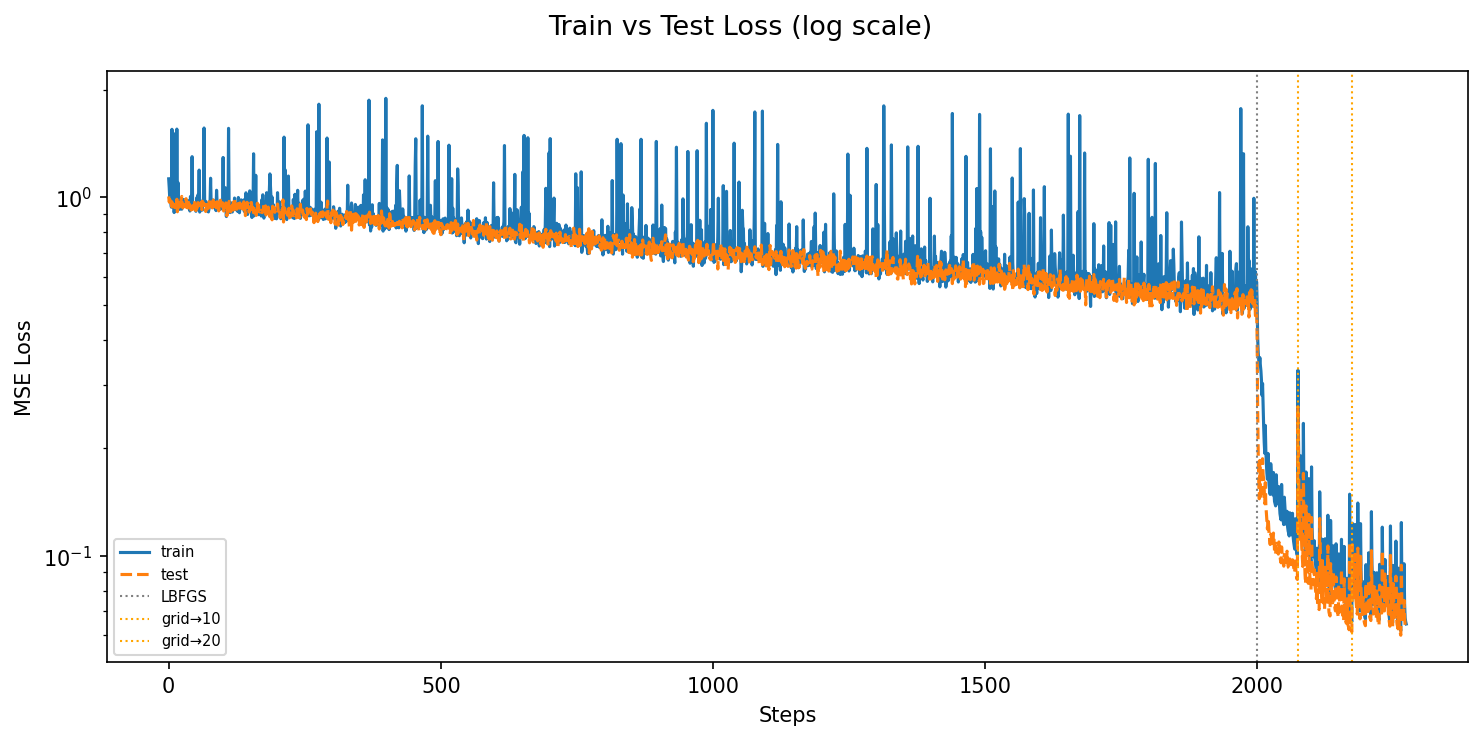
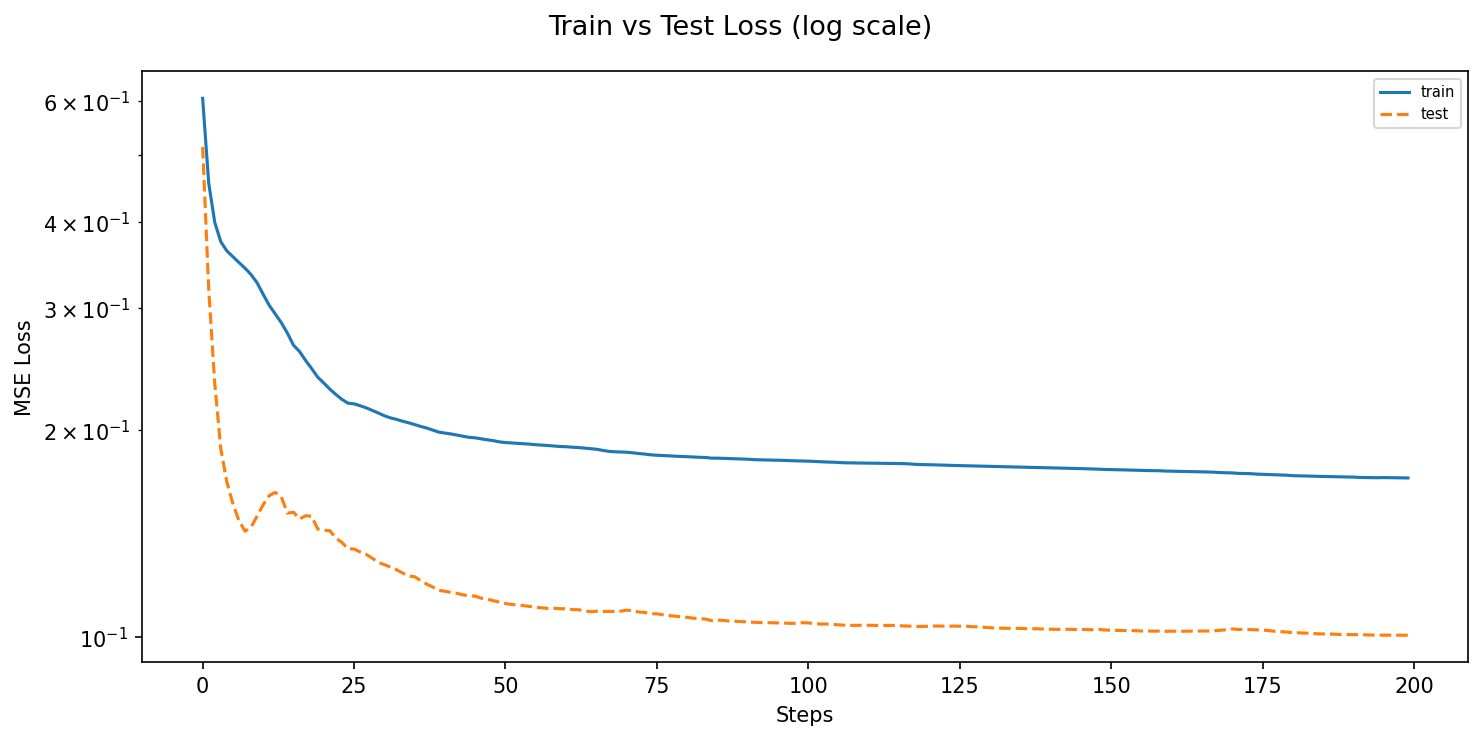
OH weighted loss, pseudo-steady state assumption

diff --git a/smog_model.py b/smog_model.py
@@ -1,3 +1,6 @@
+import functools
+print = functools.partial(print, flush=True)
+
 import pandas as pd
 import numpy as np
 import torch
@@ -9,22 +12,23 @@ from kan import KAN
 import os
 
 # paths
-CSV_PATH  = "C:/kan-project/data/experiments_11e5_1hour_5mins_falsecombinatoricratelaws.csv"
+CSV_PATH  = "C:/kan-project/experiments_11e5_1hour_5mins_falsecombinatoricratelaws.csv"
 SAVE_PATH = "C:/kan-project/predictions.npz"
 FIG_DIR   = "C:/kan-project/figures/"
 CKPT_PATH      = "C:/kan-project/model/smog_kan"
 BEST_CKPT_PATH = "C:/kan-project/model/smog_kan_best"
 
 os.makedirs(FIG_DIR, exist_ok=True)
+os.makedirs(os.path.dirname(CKPT_PATH), exist_ok=True)
 
 # config
 N_EXPS               = 10000
 TRAIN_SPLIT          = 0.8
 SEED                 = 42
-STEPS_LBFGS          = 200
+STEPS_LBFGS          = 2002
 LAMB                 = 0
 LBFGS_CHUNK          = 25      # save best every N lbfgs steps
-LOAD_FROM_CHECKPOINT = False   # set True to skip training and load saved model
+LOAD_FROM_CHECKPOINT = True   # set True to skip training and load saved model
 
 device = torch.device('cuda' if torch.cuda.is_available() else 'cpu')
 
@@ -117,6 +121,17 @@ print(f"train: {dataset['train_input'].shape} | test: {dataset['test_input'].sha
 KAN_WIDTH = [n_species, 16, 16, n_species]
 print(f"\nArchitecture: {KAN_WIDTH}")
 
+# per-species loss weighting — OH's tendency is tiny in magnitude relative to
+# other species, so plain MSE barely penalizes getting it wrong; upweight it.
+SPECIES_WEIGHTS = {"OH": 2.5}
+species_weight = torch.tensor(
+    [SPECIES_WEIGHTS.get(name, 1.0) for name in species_names],
+    dtype=torch.float32, device=device,
+)
+
+def weighted_mse(pred, target):
+    return torch.mean(species_weight * (pred - target) ** 2)
+
 def make_model():
     torch.manual_seed(SEED)
     m = KAN(width=KAN_WIDTH, grid=5, k=3, seed=SEED, device=device, auto_save=False, grid_eps=0.0)
@@ -151,7 +166,7 @@ else:
     best_val = float('inf')
 
     train_loss, test_loss, best_val = fit_chunked(model, dataset, "LBFGS", STEPS_LBFGS, LBFGS_CHUNK,
-                                                  best_val, lamb=LAMB, batch=-1)
+                                                  best_val, lamb=LAMB, batch=-1, loss_fn=weighted_mse)
 
     model.saveckpt(CKPT_PATH)
     print(f"Checkpoint saved → {CKPT_PATH}_*")
@@ -189,8 +204,8 @@ def eval_model(model):
     with torch.no_grad():
         preds_scaled = model(dataset['test_input'])
     mse       = torch.mean((preds_scaled - dataset['test_label']) ** 2).item()
-    preds_ppb = scalerY.inverse_transform(preds_scaled.numpy())
-    actual    = scalerY.inverse_transform(dataset['test_label'].numpy())
+    preds_ppb = scalerY.inverse_transform(preds_scaled.cpu().numpy())
+    actual    = scalerY.inverse_transform(dataset['test_label'].cpu().numpy())
     rmse_per  = np.sqrt(np.mean((preds_ppb - actual) ** 2, axis=0))
     return mse, rmse_per, preds_ppb, actual
 
@@ -200,7 +215,31 @@ print(f"\nTest MSE: {mse:.6f} | Mean RMSE: {rmse_per.mean():.4f} ppb/step")
 for name, rmse in zip(species_names, rmse_per):
     print(f"  {name:10s}: {rmse:.4f} ppb/step")
 
+# pseudo-steady-state check: reconstruct C(t+1) = C_input(t) + predicted tendency,
+# and see how often that violates the physical constraint that concentrations >= 0
+C_input_test  = X_clean[n_train:]
+C_next_pred   = C_input_test + preds
+C_next_actual = C_input_test + actual_ppb
+frac_negative = np.mean(C_next_pred < 0, axis=0)
+conc_rmse_per = np.sqrt(np.mean((C_next_pred - C_next_actual) ** 2, axis=0))
+
+print(f"\nPseudo-steady-state reconstruction (C_input + predicted tendency):")
+for name, frac_neg, c_rmse in zip(species_names, frac_negative, conc_rmse_per):
+    print(f"  {name:10s}: {100*frac_neg:5.2f}% negative | concentration RMSE {c_rmse:.4f} ppb")
+
 x, w = np.arange(n_species), 0.4
+
+fig, ax = plt.subplots(figsize=(13, 5))
+ax.bar(x, 100 * frac_negative, w)
+ax.set_xticks(x)
+ax.set_xticklabels(species_names, rotation=45, ha='right')
+ax.set_ylabel("Reconstructed C(t+1) < 0  (%)")
+ax.set_title("Physical Plausibility: Negative Reconstructed Concentrations")
+plt.tight_layout()
+plt.savefig(FIG_DIR + "physical_plausibility.png", dpi=150, bbox_inches="tight")
+plt.close()
+print("Saved: figures/physical_plausibility.png")
+
 fig, ax = plt.subplots(figsize=(13, 5))
 ax.bar(x, rmse_per, w)
 ax.set_xticks(x)
@@ -252,6 +291,11 @@ print(f"Saved predictions to {SAVE_PATH}")
 model.save_act = True
 with torch.no_grad():
     model(dataset['train_input'])
-model.plot(in_vars=species_names, out_vars=species_names)
-plt.savefig("C:/kan-project/kan_graph.png", dpi=150, bbox_inches="tight")
+
+# pykan's label font size (40*scale*varscale) and label spacing (fig_width/n_species)
+# both scale with `scale`, so only varscale (not scale) can prevent label overlap
+max_label_len = max(len(s) for s in species_names)
+label_varscale = min(1.0, max(0.25, 19 / (n_species * max_label_len)))
+model.plot(in_vars=species_names, out_vars=species_names, scale=1.0, varscale=label_varscale)
+plt.savefig("C:/kan-project/kan_graph.png", dpi=200, bbox_inches="tight")
 print("Saved KAN graph to C:/kan-project/kan_graph.png")

diff --git a/baseline_xgboost.py b/baseline_xgboost.py
@@ -1,0 +1,120 @@
+import functools
+print = functools.partial(print, flush=True)
+
+import numpy as np
+import pandas as pd
+import xgboost as xgb
+from sklearn.metrics import r2_score
+
+# This evaluates Sturm & Silva's actual trained XGBoost emulator
+# (Zenodo 10.5281/zenodo.13385987, smogforest_new.json) on its own proper
+# held-out test set, replicating their exact preprocessing so the model
+# receives inputs scaled exactly as it was trained on.
+#
+# NOTE: this is NOT the same test split our KAN was evaluated on — the KAN
+# was trained/tested on a 10,000-experiment subset (80/20 split), while this
+# model was trained on the full 1,000,000-experiment dataset (90/10 split,
+# per the paper). Both are still valid held-out evaluations since all
+# experiments are drawn i.i.d. from the same random initial-condition
+# distribution, but the numbers are a reproduction of their reported
+# baseline, not a row-for-row identical comparison to our KAN's test set.
+
+CSV_PATH   = "C:/kan-project/experiments_11e5_1hour_5mins_falsecombinatoricratelaws.csv"
+MODEL_PATH = "C:/kan-project/model/sturm_silva/smogforest_new.json"
+
+n_pts, n_steps = 13, 12
+N_EXPS_TOTAL = 1_000_000
+TRAIN_EXPS   = 900_000
+TEST_EXPS    = 100_000
+
+ignore_species = ['H2O', 'O2', 'HNO3', 'CO', 'H2']
+
+header   = pd.read_csv(CSV_PATH, nrows=0)
+ppb_cols = [c for c in header.columns if c.endswith('[ppb]')]
+assert len(ppb_cols) == 16
+active_cols    = [c for c in ppb_cols if c.split(' ')[0] not in ignore_species]
+active_idx     = [ppb_cols.index(c) for c in active_cols]
+species_all    = [c.split(' ')[0] for c in ppb_cols]
+species_active = [c.split(' ')[0] for c in active_cols]
+n_all, n_active = len(ppb_cols), len(active_cols)
+print(f"All species ({n_all}): {species_all}")
+print(f"Active/input species ({n_active}): {species_active}")
+
+# --- pass 1: chunked min/max over the TRAINING experiments only, to
+# reconstruct the exact MinMaxScaler stats used when the model was trained,
+# without loading all 11.7M training rows into memory at once ---
+CHUNK_EXPS = 50_000
+chunk_rows = CHUNK_EXPS * n_pts
+train_rows = TRAIN_EXPS * n_pts
+
+x_min = np.full(n_active, np.inf)
+x_max = np.full(n_active, -np.inf)
+y_min = np.full(n_all, np.inf)
+y_max = np.full(n_all, -np.inf)
+
+rows_read = 0
+print(f"\nScanning {TRAIN_EXPS} training experiments in chunks of {CHUNK_EXPS}...")
+for chunk in pd.read_csv(CSV_PATH, chunksize=chunk_rows):
+    if rows_read >= train_rows:
+        break
+    C_chunk = chunk.iloc[:, 2:].values
+    del_x = list(range(n_steps, C_chunk.shape[0], n_pts))
+    X_chunk = np.delete(C_chunk[:, active_idx], del_x, axis=0)
+    D_raw = np.diff(C_chunk, axis=0)
+    del_d = list(range(n_steps, C_chunk.shape[0] - 1, n_pts))
+    D_chunk = np.delete(D_raw, del_d, axis=0)
+
+    x_min = np.minimum(x_min, X_chunk.min(axis=0))
+    x_max = np.maximum(x_max, X_chunk.max(axis=0))
+    y_min = np.minimum(y_min, D_chunk.min(axis=0))
+    y_max = np.maximum(y_max, D_chunk.max(axis=0))
+
+    rows_read += C_chunk.shape[0]
+    print(f"  scanned {rows_read}/{train_rows} rows", end="\r")
+
+print(f"\nDone scanning training set for scaler stats.")
+
+# --- pass 2: load only the held-out test experiments (last 10%) ---
+test_start_row = TRAIN_EXPS * n_pts
+print(f"\nLoading {TEST_EXPS} test experiments (rows {test_start_row}:{test_start_row + TEST_EXPS*n_pts})...")
+df_test = pd.read_csv(
+    CSV_PATH,
+    skiprows=range(1, test_start_row + 1),
+    nrows=TEST_EXPS * n_pts,
+)
+C_test_all = df_test.iloc[:, 2:].values
+del_x = list(range(n_steps, C_test_all.shape[0], n_pts))
+X_test_raw = np.delete(C_test_all[:, active_idx], del_x, axis=0)
+D_raw = np.diff(C_test_all, axis=0)
+del_d = list(range(n_steps, C_test_all.shape[0] - 1, n_pts))
+Y_test_raw = np.delete(D_raw, del_d, axis=0)
+print(f"X_test: {X_test_raw.shape} | Y_test: {Y_test_raw.shape}")
+
+# manual MinMaxScaler transform (feature_range=(0,1), matching sklearn default)
+X_test_scaled = (X_test_raw - x_min) / (x_max - x_min)
+
+print(f"\nLoading trained model: {MODEL_PATH}")
+model = xgb.XGBRegressor()
+model.load_model(MODEL_PATH)
+
+preds_scaled = model.predict(X_test_scaled)
+preds_ppb = preds_scaled * (y_max - y_min) + y_min
+
+rmse_per = np.sqrt(np.mean((preds_ppb - Y_test_raw) ** 2, axis=0))
+r2_per   = np.array([r2_score(Y_test_raw[:, i], preds_ppb[:, i]) for i in range(n_all)])
+
+print(f"\nSturm & Silva XGBoost — per-species test performance (all {n_all} species):")
+for name, rmse, r2 in zip(species_all, rmse_per, r2_per):
+    flag = "  <-- overlaps with our KAN" if name in species_active else ""
+    print(f"  {name:10s}: RMSE={rmse:.6f} ppb/step  R2={r2:.4f}{flag}")
+
+overlap_idx = [ppb_cols.index(c) for c in active_cols]
+print(f"\nMean RMSE over the {n_active} species our KAN also predicts: "
+      f"{rmse_per[overlap_idx].mean():.4f} ppb/step")
+
+np.savez(
+    "C:/kan-project/model/sturm_silva_xgboost_predictions.npz",
+    predictions=preds_ppb, actuals=Y_test_raw,
+    species=np.array(species_all), rmse_per=rmse_per, r2_per=r2_per,
+)
+print("Saved predictions to C:/kan-project/model/sturm_silva_xgboost_predictions.npz")

diff --git a/baseline_ffnn.py b/baseline_ffnn.py
@@ -1,0 +1,122 @@
+import functools
+print = functools.partial(print, flush=True)
+
+import pandas as pd
+import numpy as np
+import torch
+import torch.nn as nn
+from sklearn.preprocessing import StandardScaler
+import os
+
+# NOTE: keep CSV_PATH / N_EXPS / TRAIN_SPLIT / ignore list in sync with smog_model.py
+# so this baseline is trained and evaluated on exactly the same data/split as the KAN.
+CSV_PATH    = "C:/kan-project/experiments_11e5_1hour_5mins_falsecombinatoricratelaws.csv"
+FIG_DIR     = "C:/kan-project/figures/"
+N_EXPS      = 10000
+TRAIN_SPLIT = 0.8
+SEED        = 42
+EPOCHS      = 2000
+LR          = 1e-3
+
+os.makedirs(FIG_DIR, exist_ok=True)
+torch.manual_seed(SEED)
+device = torch.device('cuda' if torch.cuda.is_available() else 'cpu')
+
+# load and clean (identical to smog_model.py)
+df = pd.read_csv(CSV_PATH, nrows=13 * N_EXPS)
+print(f"Loaded {df.shape[0]} rows")
+
+assert all(df.columns[2:].str.endswith("[ppb]")), (
+    "Unexpected non-ppb columns after index 2 — check CSV structure"
+)
+
+ignore        = ["H2O", "O2", "HNO3", "CO", "H2"]
+active_cols   = [c for c in df.columns if c.split(" ")[0] not in ignore and c.endswith("[ppb]")]
+species_names = [c.split(" ")[0] for c in active_cols]
+all_ppb_cols  = list(df.iloc[:, 2:].columns)
+active_indices = [all_ppb_cols.index(c) for c in active_cols]
+
+C_active = df[active_cols].values
+C_all    = df.iloc[:, 2:].values
+
+N, n_pts, n_steps = df.shape[0], 13, 12
+
+assert df.shape[0] == n_pts * N_EXPS, (
+    f"Expected {n_pts * N_EXPS} rows, got {df.shape[0]}."
+)
+
+D_raw   = np.diff(C_all, axis=0)
+D_clean = np.delete(D_raw,    list(range(n_steps, N - 1, n_pts)), axis=0)
+X_clean = np.delete(C_active, list(range(n_steps, N,     n_pts)), axis=0)
+
+D_active  = D_clean[:, active_indices]
+n_species = len(species_names)
+print(f"Species ({n_species}): {species_names}")
+print(f"X: {X_clean.shape}  |  D: {D_active.shape}")
+
+# scale (identical to smog_model.py)
+scalerX  = StandardScaler()
+scalerY  = StandardScaler()
+X_scaled = scalerX.fit_transform(np.log1p(X_clean))
+Y_scaled = scalerY.fit_transform(D_active)
+
+n_train          = int(X_scaled.shape[0] * TRAIN_SPLIT)
+X_train, Y_train = X_scaled[:n_train], Y_scaled[:n_train]
+X_test,  Y_test  = X_scaled[n_train:], Y_scaled[n_train:]
+print(f"train: {X_train.shape} | test: {X_test.shape}")
+
+def t(arr):
+    return torch.tensor(arr, dtype=torch.float32).to(device)
+
+X_train_t, Y_train_t = t(X_train), t(Y_train)
+X_test_t,  Y_test_t  = t(X_test),  t(Y_test)
+
+# plain feedforward MLP — same input/output width as the KAN's [n_species, 16, 16, n_species]
+class FFNN(nn.Module):
+    def __init__(self, n_species, hidden=16):
+        super().__init__()
+        self.net = nn.Sequential(
+            nn.Linear(n_species, hidden), nn.ReLU(),
+            nn.Linear(hidden, hidden), nn.ReLU(),
+            nn.Linear(hidden, n_species),
+        )
+    def forward(self, x):
+        return self.net(x)
+
+model = FFNN(n_species).to(device)
+opt = torch.optim.Adam(model.parameters(), lr=LR)
+loss_fn = nn.MSELoss()
+
+print(f"\nTraining FFNN for {EPOCHS} epochs...")
+for epoch in range(EPOCHS):
+    model.train()
+    opt.zero_grad()
+    pred = model(X_train_t)
+    loss = loss_fn(pred, Y_train_t)
+    loss.backward()
+    opt.step()
+
+    if (epoch + 1) % 200 == 0:
+        model.eval()
+        with torch.no_grad():
+            test_loss = loss_fn(model(X_test_t), Y_test_t).item()
+        print(f"  epoch {epoch+1:4d}: train_loss={loss.item():.6f}  test_loss={test_loss:.6f}")
+
+# evaluate (identical metric to smog_model.py's eval_model)
+model.eval()
+with torch.no_grad():
+    preds_scaled = model(X_test_t)
+mse       = torch.mean((preds_scaled - Y_test_t) ** 2).item()
+preds_ppb = scalerY.inverse_transform(preds_scaled.cpu().numpy())
+actual    = scalerY.inverse_transform(Y_test_t.cpu().numpy())
+rmse_per  = np.sqrt(np.mean((preds_ppb - actual) ** 2, axis=0))
+
+print(f"\nTest MSE: {mse:.6f} | Mean RMSE: {rmse_per.mean():.4f} ppb/step")
+for name, rmse in zip(species_names, rmse_per):
+    print(f"  {name:10s}: {rmse:.4f} ppb/step")
+
+np.savez(
+    "C:/kan-project/model/ffnn_predictions.npz",
+    predictions=preds_ppb, actuals=actual, species=np.array(species_names), rmse_per=rmse_per,
+)
+print("Saved predictions to C:/kan-project/model/ffnn_predictions.npz")
